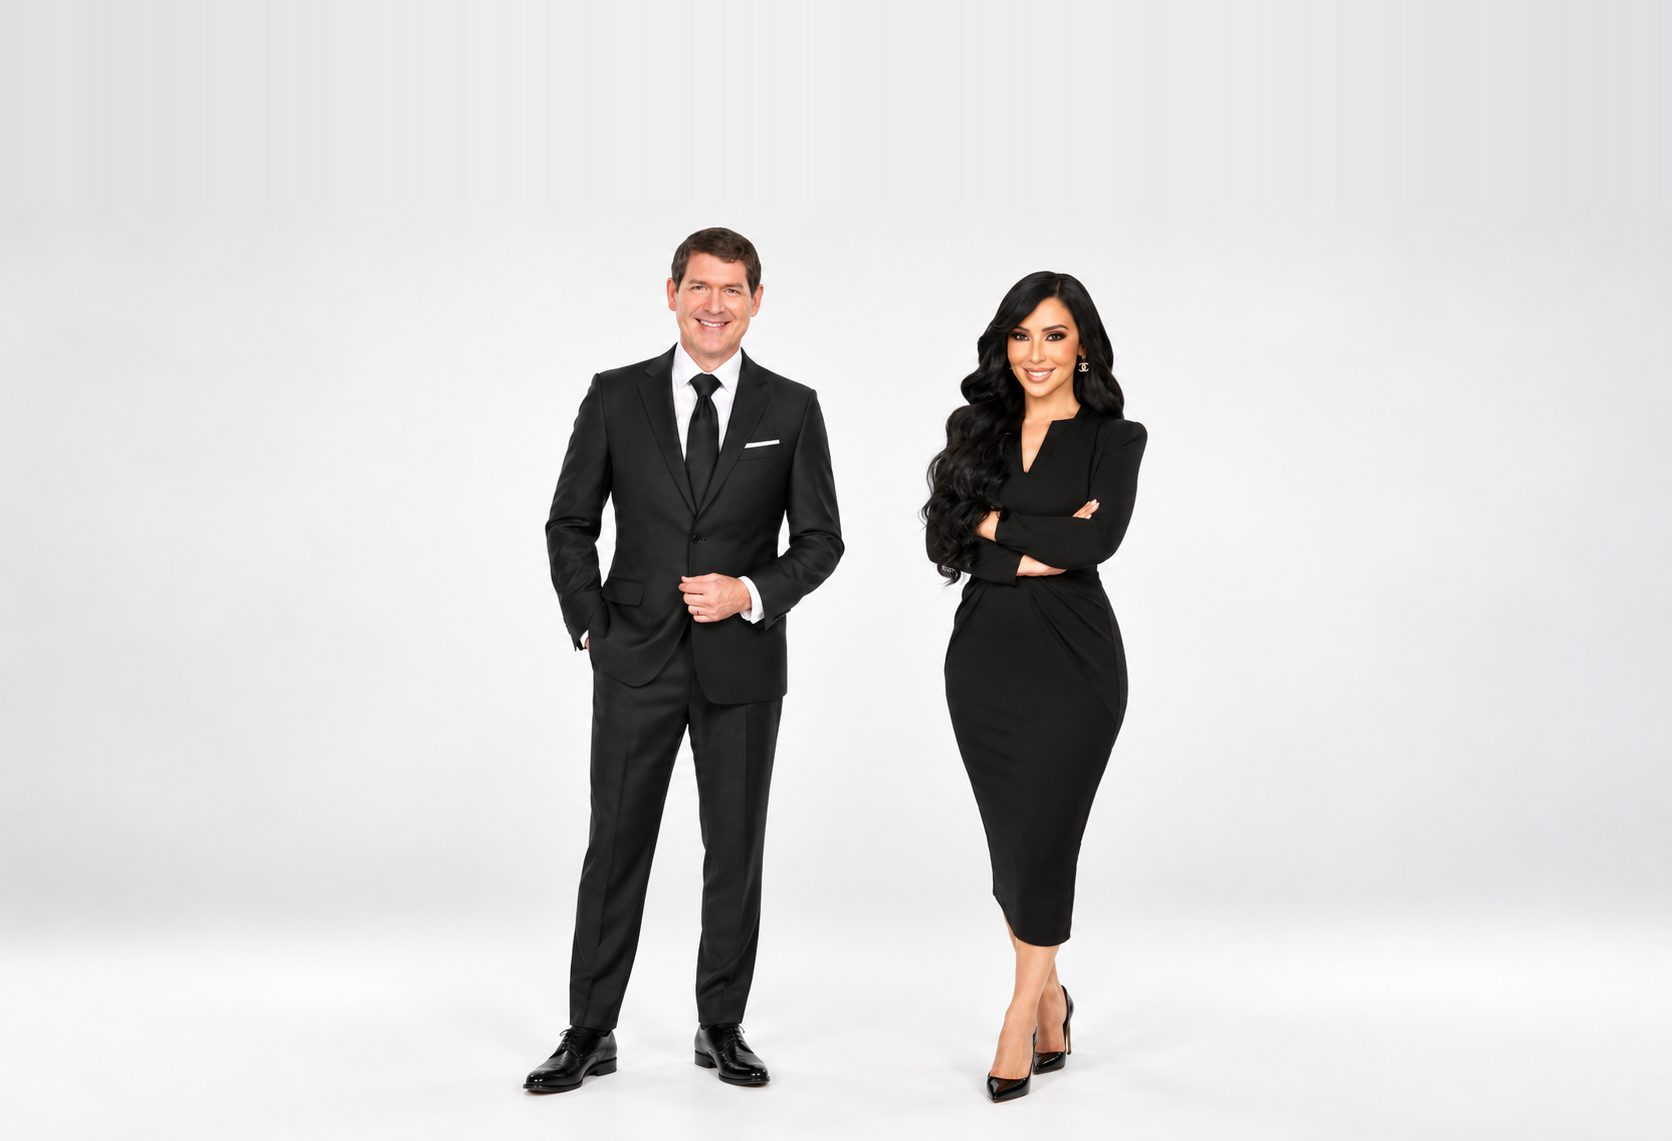
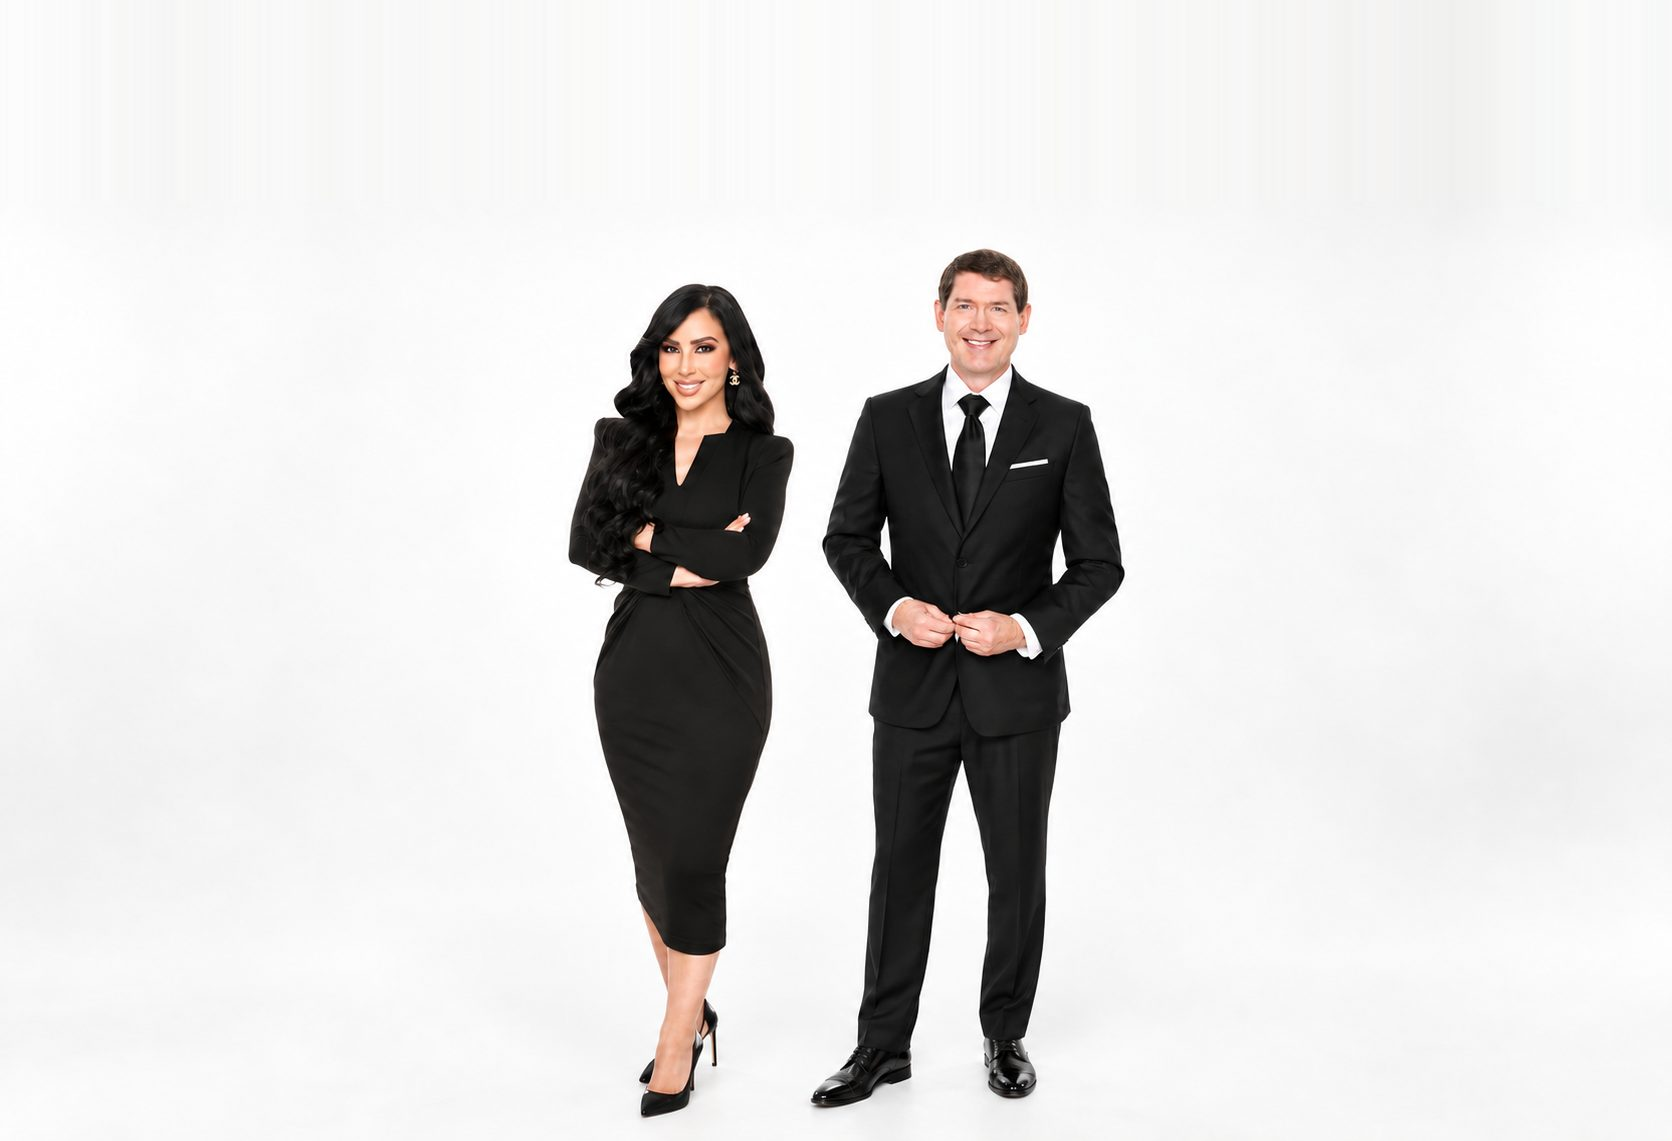
Convert entire site to a dark luxury theme (black background, white text) and swap in new photos
Per Roya's feedback: 'Please replace the white background for black and white writing.
Darker images for the cash offer home..more luxury home. I like that this website used
their social media pages below and uses luxury fonts and colors' (referencing
thealtmanbrothers.com).

- Flipped every remaining white/cream section to a dark surface with white text: Credibility,
  About, Testimonials, Featured Properties, Home Valuation, Contact, Instagram, and the header's
  scrolled state -- Cash Offer, Buy/Sell, Areas, the final CTA and the footer were already dark.
- Added a distinct --surface tone for elevated cards (testimonial cards, property cards, the IDX
  wrapper) so they read as a level above the page background, fixing the earlier white-on-white
  card/section flattening now that everything is dark.
- Valuation and Contact form panels became glassy translucent panels (matching the existing Cash
  Offer form treatment) instead of solid white cards.
- Replaced cash-offer-bg.jpg with a free-to-use (Unsplash License) luxury stone estate at dusk by
  Daniel Barnes -- https://unsplash.com/photos/RKdLlTyjm5g -- source kept as
  daniel-barnes-RKdLlTyjm5g-unsplash.jpg; the old modest suburban-house photo is gone.
- Replaced hero-cover.jpg with the new duo photo Douglas provided (Roya left, Brian right),
  re-applying the same breathing-room canvas extension used on the previous version so both
  subjects clear the header; the flat source is kept as new_cover2.jpeg.
[…]

diff --git a/index.html b/index.html
@@ -54,13 +54,14 @@
 <style>
   /* ============ TOKENS ============ */
   :root{
-    --cream:#FFFFFF;
+    --cream:#0c0c0b;
     --ink:#111111;
-    --charcoal:#252525;
+    --charcoal:#c9c3b7;
     --taupe:#C9B9A6;
     --champagne:#B69A72;
     --white:#FFFFFF;
-    --line: rgba(17,17,17,0.1);
+    --surface:#17140f;
+    --line: rgba(255,255,255,0.14);
     --line-light: rgba(255,255,255,0.14);
 
     --serif: 'Cormorant Garamond', 'Times New Roman', serif;
@@ -84,7 +85,7 @@
     margin:0;
     font-family:var(--sans);
     background:var(--cream);
-    color:var(--ink);
+    color:var(--white);
     -webkit-font-smoothing:antialiased;
     overflow-x:hidden;
   }
@@ -144,10 +145,10 @@
     transition:all .35s var(--ease);
     white-space:nowrap;
   }
-  .btn-dark{ background:var(--ink); color:var(--white); }
+  .btn-dark{ background:var(--ink); color:var(--white); border-color:var(--line-light); }
   .btn-dark:hover{ background:var(--champagne); }
-  .btn-outline{ background:transparent; color:var(--ink); border-color:var(--ink); }
-  .btn-outline:hover{ background:var(--ink); color:var(--white); }
+  .btn-outline{ background:transparent; color:var(--white); border-color:var(--line-light); }
+  .btn-outline:hover{ background:var(--white); color:var(--ink); }
   .btn-outline-light{ background:transparent; color:var(--white); border-color:var(--line-light); }
   .btn-outline-light:hover{ background:var(--white); color:var(--ink); }
   .btn-champagne{ background:var(--champagne); color:var(--white); }
@@ -167,10 +168,10 @@
   /* ============ CASH OFFER CAPTURE ============ */
   .cash-offer{
     position:relative;
-    /* cash-offer-bg.jpg is optional: if it's not on disk the gradient below shows on its own.
-       Suggested source (royalty-free, Unsplash License -- free for commercial use, no attribution
-       required): https://unsplash.com/photos/modern-house-with-garage-at-dusk-XbwHrt87mQ0
-       (photo by Brian Babb). Save it into this project folder as cash-offer-bg.jpg. */
+    /* cash-offer-bg.jpg: luxury stone estate at dusk (royalty-free, Unsplash License --
+       free for commercial use, no attribution required), by Daniel Barnes:
+       https://unsplash.com/photos/RKdLlTyjm5g -- source kept in this project folder as
+       daniel-barnes-RKdLlTyjm5g-unsplash.jpg, this file is the optimized/resized derivative. */
     background:
       linear-gradient(100deg, rgba(20,17,15,.88) 0%, rgba(20,17,15,.62) 42%, rgba(20,17,15,.24) 100%),
       url('cash-offer-bg.jpg') center 30% / cover no-repeat,
@@ -263,7 +264,7 @@
     transition:background .4s var(--ease), border-color .4s var(--ease), padding .4s var(--ease);
   }
   header.scrolled{
-    background:rgba(255,255,255,0.92);
+    background:rgba(10,9,8,0.86);
     backdrop-filter:blur(10px);
     border-bottom:1px solid var(--line);
   }
@@ -295,7 +296,7 @@
     display:none; flex-direction:column; justify-content:center; gap:5px;
     width:30px; height:30px; background:none; border:none; padding:0; z-index:1200;
   }
-  .hamburger span{ display:block; width:100%; height:1px; background:var(--ink); transition:all .35s var(--ease); }
+  .hamburger span{ display:block; width:100%; height:1px; background:var(--white); transition:all .35s var(--ease); }
   .hamburger.open span:nth-child(1){ transform:translateY(6px) rotate(45deg); }
   .hamburger.open span:nth-child(2){ opacity:0; }
   .hamburger.open span:nth-child(3){ transform:translateY(-6px) rotate(-45deg); }
@@ -333,7 +334,7 @@
     position:absolute; top:26px; right:var(--pad);
     width:42px; height:42px; border:none; background:none;
     display:flex; align-items:center; justify-content:center;
-    font-size:22px; color:var(--ink); cursor:pointer; z-index:1150;
+    font-size:22px; color:var(--white); cursor:pointer; z-index:1150;
   }
   .mobile-nav-close:hover{ color:var(--champagne); }
 
@@ -436,9 +437,9 @@
   .field label{ font-size:10px; letter-spacing:.12em; text-transform:uppercase; font-weight:600; color:var(--charcoal); opacity:.7; }
   .field input, .field select{
     border:none; border-bottom:1px solid var(--line); background:transparent;
-    padding:8px 2px; font-size:14.5px; color:var(--ink);
+    padding:8px 2px; font-size:14.5px; color:var(--white);
   }
-  .field input::placeholder{ color:#9a9488; }
+  .field input::placeholder{ color:rgba(255,255,255,.4); }
   .field input:focus, .field select:focus{ border-bottom-color:var(--champagne); outline:none; }
 
   /* ============ SECTION SPACING ============ */
@@ -451,11 +452,11 @@
   /* ============ PROPERTIES ============ */
   .prop-grid{ display:grid; grid-template-columns:repeat(3,1fr); gap:32px; }
   .prop-card{
-    background:var(--white); border:1px solid var(--line);
+    background:var(--surface); border:1px solid var(--line);
     transition:transform .5s var(--ease), box-shadow .5s var(--ease);
   }
   .prop-card:hover{ transform:translateY(-6px); box-shadow:0 30px 50px -30px rgba(17,17,17,.25); }
-  .prop-media{ position:relative; aspect-ratio:4/3; overflow:hidden; background:#e7e1d6; }
+  .prop-media{ position:relative; aspect-ratio:4/3; overflow:hidden; background:#241f1a; }
   .prop-media img{ width:100%; height:100%; object-fit:cover; transition:transform .8s var(--ease); }
   .prop-card:hover .prop-media img{ transform:scale(1.06); }
   .prop-tag{
@@ -463,7 +464,7 @@
     font-size:9.5px; letter-spacing:.14em; text-transform:uppercase; padding:7px 12px; font-weight:600;
   }
   .prop-body{ padding:26px; }
-  .prop-price{ font-family:var(--serif); font-size:28px; color:var(--ink); }
+  .prop-price{ font-family:var(--serif); font-size:28px; color:var(--white); }
   .prop-loc{ font-size:13px; color:var(--charcoal); opacity:.75; margin-top:6px; letter-spacing:.01em; }
   .prop-specs{ display:flex; gap:18px; margin-top:18px; padding-top:18px; border-top:1px solid var(--line); }
   .prop-specs span{ font-size:12.5px; color:var(--charcoal); display:flex; align-items:center; gap:6px; }
@@ -487,14 +488,14 @@
   .split-panel.split-photo .eyebrow{ color:var(--champagne); }
 
   /* ============ VALUATION ============ */
-  .valuation{ background:var(--charcoal); color:var(--white); }
+  .valuation{ background:#211d19; color:var(--white); }
   .val-grid{ display:grid; grid-template-columns:1fr 1fr; gap:70px; align-items:center; }
   .val-copy h2{ color:var(--white); font-size:clamp(32px,3.6vw,46px); margin-top:18px; }
   .val-copy p{ font-size:16px; line-height:1.7; opacity:.75; margin-top:20px; max-width:420px; }
   .val-stats{ display:flex; gap:44px; margin-top:40px; }
   .val-stats .num{ font-family:var(--serif); font-size:32px; color:var(--champagne); }
   .val-stats .lab{ font-size:10px; letter-spacing:.1em; text-transform:uppercase; opacity:.65; margin-top:4px; }
-  .val-form{ background:var(--white); color:var(--ink); padding:44px; }
+  .val-form{ background:rgba(255,255,255,.05); color:var(--white); padding:44px; border:1px solid var(--line); }
   .val-form .field{ margin-bottom:20px; }
   .val-form .field label{ opacity:.6; }
   .form-success{
@@ -543,13 +544,13 @@
   .team-mini-person span{ font-size:12.5px; letter-spacing:.04em; color:var(--charcoal); font-weight:500; }
 
   /* ============ TESTIMONIALS ============ */
-  .testimonials{ background:var(--white); border-top:1px solid var(--line); border-bottom:1px solid var(--line); }
+  .testimonials{ background:var(--cream); border-top:1px solid var(--line); border-bottom:1px solid var(--line); }
   .stars-row{ display:flex; align-items:center; gap:14px; margin-bottom:10px; }
   .stars-row .stars{ color:var(--champagne); font-size:14px; letter-spacing:2px; }
   .t-grid{ display:grid; grid-template-columns:repeat(2,1fr); gap:32px; }
-  .t-card{ background:var(--cream); padding:36px 30px; border:1px solid var(--line); }
+  .t-card{ background:var(--surface); padding:36px 30px; border:1px solid var(--line); }
   .t-card .stars{ color:var(--champagne); font-size:12px; letter-spacing:2px; margin-bottom:18px; display:block; }
-  .t-card p{ font-family:var(--serif); font-style:italic; font-size:19px; line-height:1.55; color:var(--ink); margin:0 0 24px; }
+  .t-card p{ font-family:var(--serif); font-style:italic; font-size:19px; line-height:1.55; color:var(--white); margin:0 0 24px; }
   .t-name{ font-size:12px; font-weight:600; letter-spacing:.03em; }
   .t-loc{ font-size:11.5px; color:var(--charcoal); opacity:.6; margin-top:2px; }
   .t-source{
@@ -600,7 +601,7 @@
   .contact-detail i{ color:var(--champagne); margin-top:3px; }
   .contact-detail .lab{ font-size:10px; letter-spacing:.1em; text-transform:uppercase; opacity:.55; font-weight:600; }
   .contact-detail .val{ font-size:14.5px; margin-top:3px; }
-  .contact-form{ background:var(--white); border:1px solid var(--line); padding:44px; }
+  .contact-form{ background:rgba(255,255,255,.05); border:1px solid var(--line); padding:44px; }
   .contact-form .field{ margin-bottom:20px; }
   .grid-2{ display:grid; grid-template-columns:1fr 1fr; gap:20px; }
 
@@ -729,7 +730,7 @@
   }
 
   /* ============ CREDIBILITY / AUTHORITY ============ */
-  .credibility{ background:var(--white); border-top:1px solid var(--line); border-bottom:1px solid var(--line); padding:52px 0; }
+  .credibility{ background:var(--cream); border-top:1px solid var(--line); border-bottom:1px solid var(--line); padding:52px 0; }
   .credibility-grid{ display:grid; grid-template-columns:repeat(4,1fr); gap:30px; }
   .cred-item{ text-align:center; padding-left:26px; border-left:1px solid var(--line); }
   .cred-item:first-child{ border-left:none; padding-left:0; }
@@ -739,7 +740,7 @@
 
   /* ============ IDX / MLS SEARCH ============ */
   .idx-wrapper{
-    position:relative; width:100%; background:var(--white); border:1px solid var(--line);
+    position:relative; width:100%; background:var(--surface); border:1px solid var(--line);
     min-height:480px; margin-bottom:60px; overflow:hidden;
     display:flex; align-items:center; justify-content:center;
   }
@@ -976,7 +977,7 @@
           <span>Roya</span>
         </div>
         <div class="team-mini-person">
-          <img src="brian-headshot.png" alt="Brian" loading="lazy">
+          <img src="new_brian_black.jpeg" alt="Brian" loading="lazy">
           <span>Brian</span>
         </div>
       </div>
